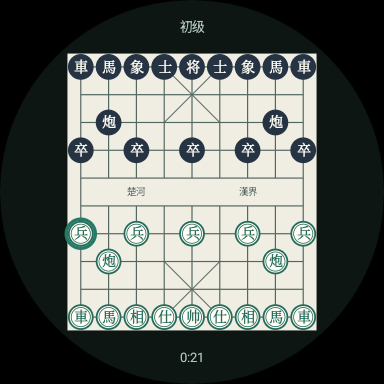
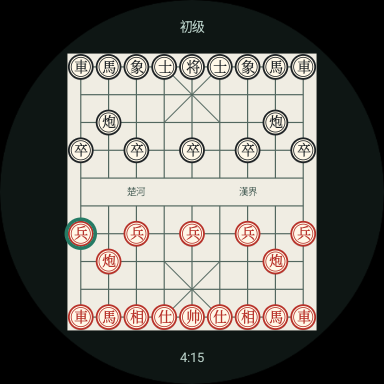
Release v1.0.7: red and black pieces, and music that plays again
1.0.6 drew the two sides as celadon-on-ivory and navy discs. She said that
does not read as xiangqi, which is red against black, and asked for red
characters on a light face and black characters on a light face. Both sides
now share one face colour, slightly warmer than the ivory board, with a faint
shadow so a light piece does not dissolve into a light board; the ink colour
carries the side.

Music had gone silent since 1.0.5. MediaPlayer treats pause() before its first
start() as an invalid call and drops into the Error state, after which start()
does nothing. 1.0.5 started pausing the music whenever the app leaves the
foreground, and on the menu screen the music has not started yet, so one wrist
drop there was enough to kill it for the rest of the process. Her watch's
audio history shows exactly that: paused then stopped at launch, and every
later start followed by an immediate stop. stopBgm now pauses only while
playing, and a player that errors anyway is released and rebuilt on the next
start. Reproduced on the Wear emulator via menu, Home, back, new game; silent
on 1.0.6, playing on 1.0.7.

The feature graphic now matches the app and is generated by
scripts/make-feature-graphic.py instead of being a one-off image; the old one
also put pieces inside squares rather than on intersections.

diff --git a/app/src/main/java/com/yingwang/watchchess/ui/GameScreen.kt b/app/src/main/java/com/yingwang/watchchess/ui/GameScreen.kt
@@ -52,6 +52,7 @@ import androidx.compose.ui.graphics.Color
 import androidx.compose.ui.graphics.drawscope.DrawScope
 import androidx.compose.ui.graphics.drawscope.Stroke
 import androidx.compose.ui.graphics.nativeCanvas
+import androidx.compose.ui.graphics.toArgb
 import androidx.compose.ui.input.pointer.pointerInput
 import androidx.compose.ui.input.rotary.onRotaryScrollEvent
 import androidx.compose.ui.platform.LocalConfiguration
@@ -97,8 +98,13 @@ import kotlin.math.sqrt
 
 private val BoardBg = Color(0xFFF0EDE3)
 private val GridColor = Color(0xFF52675F)
-private val RedPiece = Color(0xFF246B5B)
-private val BlackPiece = Color(0xFF253342)
+// 两方棋子照象棋的老规矩：同一种浅色子面，红方朱砂字，黑方墨字，字外各勾一道同色圈。
+// 1.0.6 曾把两方改成墨青浅子与深蓝深子，殿下 2026-09-26 看了说不像象棋，要「白底黑字、
+// 白底红字」。子面比棋盘略暖一些，再垫一圈很淡的影子，免得浅子融进象牙白的盘里。
+private val PieceFace = Color(0xFFFFF8E8)
+private val PieceShadow = Color(0x2A000000)
+private val RedPiece = Color(0xFFB8322A)
+private val BlackPiece = Color(0xFF1E2326)
 private val SelectedRing = Color(0xFF257B65)
 private val LegalDot = Color(0xAA257B65)
 private val OpponentMoveColor = Color(0xFF1B6BFF)
@@ -260,7 +266,7 @@ private fun vibrateDouble(context: Context) {
 
 // ── Sound ──────────────────────────────────────────────────────────────────
 
-private class GameSounds(context: Context) {
+private class GameSounds(private val context: Context) {
     private val pool = SoundPool.Builder()
         .setMaxStreams(2)
         .setAudioAttributes(
@@ -276,9 +282,23 @@ private class GameSounds(context: Context) {
     // 也是棋盘上真正会喊的那一句。
     private val sayCaptureId = pool.load(context, R.raw.say_capture, 1)
     private val sayCheckId = pool.load(context, R.raw.say_check, 1)
-    private val bgm = android.media.MediaPlayer.create(context, R.raw.background_music)?.apply {
-        isLooping = true; setVolume(0.15f, 0.15f)
-    }
+    // 背景音乐播放器。MediaPlayer 有个脾气：还没 start 过就 pause，它会报错进入 Error
+    // 状态，之后再 start 也不出声。1.0.5 加了「退到后台就停音乐」，停在菜单页（音乐
+    // 本来就没开始）时抬腕放腕一下就踩中这条，此后整局都没音乐，殿下 2026-09-26 发现
+    // 「音乐打开之后好像没有音乐了」。所以只在真在放的时候才 pause；万一还是进了 Error，
+    // 就把它丢掉，下次要放时重建一个。
+    private var bgm: android.media.MediaPlayer? = createBgm()
+
+    private fun createBgm(): android.media.MediaPlayer? =
+        android.media.MediaPlayer.create(context, R.raw.background_music)?.apply {
+            isLooping = true; setVolume(0.15f, 0.15f)
+            setOnErrorListener { mp, what, extra ->
+                Log.w("WatchChess", "bgm error $what/$extra, recreating")
+                mp.release()
+                if (bgm === mp) bgm = null
+                true
+            }
+        }
 
     // 这两个开关要记住。2026-09-22 殿下说调试的时候把音乐音效关了，翻出来才发现关了
     // 也白关：它们只存在内存里，应用一重启就又回到开着。菜单里明明有这个开关，关掉之后
@@ -291,11 +311,15 @@ private class GameSounds(context: Context) {
     // 默认开，所以改回来。菜单里开关仍在，随时可关。
     var bgmOn = prefs.getBoolean(PREF_BGM_ON, true)
 
-    fun startBgm() { if (bgmOn) bgm?.start() }
-    fun stopBgm() { bgm?.pause() }
+    fun startBgm() {
+        if (!bgmOn) return
+        if (bgm == null) bgm = createBgm()
+        bgm?.start()
+    }
+    fun stopBgm() { bgm?.let { if (it.isPlaying) it.pause() } }
     fun toggleBgm(): Boolean {
         bgmOn = !bgmOn
-        if (bgmOn) bgm?.start() else bgm?.pause()
+        if (bgmOn) startBgm() else stopBgm()
         prefs.edit().putBoolean(PREF_BGM_ON, bgmOn).apply()
         return bgmOn
     }
@@ -308,7 +332,7 @@ private class GameSounds(context: Context) {
     fun playCapture() { if (sfxOn) pool.play(captureId, 0.8f, 0.8f, 1, 0, 1f) }
     fun sayCapture() { if (sfxOn) pool.play(sayCaptureId, 1f, 1f, 2, 0, 1f) }
     fun sayCheck() { if (sfxOn) pool.play(sayCheckId, 1f, 1f, 2, 0, 1f) }
-    fun release() { bgm?.release(); pool.release() }
+    fun release() { bgm?.release(); bgm = null; pool.release() }
 }
 
 // ── Root ───────────────────────────────────────────────────────────────────
@@ -1133,10 +1157,12 @@ private fun DrawScope.drawPieces(ox: Float, oy: Float, c: Float, pieces: List<Pi
         val cx = ox + flipCol(piece.position.col, flipped) * c
         val cy = oy + flipRow(piece.position.row, flipped) * c
         val ctr = Offset(cx, cy); val red = piece.color == PieceColor.RED
-        drawCircle(if (red) Color(0xFFFFFDF5) else BlackPiece, r, ctr)
-        drawCircle(if (red) RedPiece else BlackPiece, r, ctr, style = Stroke(1.8f))
-        drawCircle(if (red) RedPiece else BlackPiece, r * 0.80f, ctr, style = Stroke(0.8f))
-        tp.color = if (red) 0xFF246B5B.toInt() else 0xFFFFFDF5.toInt()
+        val ink = if (red) RedPiece else BlackPiece
+        drawCircle(PieceShadow, r, ctr + Offset(0f, c * 0.05f))
+        drawCircle(PieceFace, r, ctr)
+        drawCircle(ink, r, ctr, style = Stroke(1.8f))
+        drawCircle(ink, r * 0.80f, ctr, style = Stroke(0.8f))
+        tp.color = ink.toArgb()
         val fm = tp.fontMetrics
         drawContext.canvas.nativeCanvas.drawText(piece.type.getDisplayName(piece.color), cx, cy - (fm.ascent + fm.descent) / 2, tp)
     }
@@ -1205,12 +1231,12 @@ private fun DrawScope.drawCaptured(ox: Float, c: Float, captured: List<Piece>, t
             textSize = r * 1.15f
             textAlign = android.graphics.Paint.Align.CENTER
             isAntiAlias = true
-            color = if (side == PieceColor.RED) 0xFF246B5B.toInt() else 0xFFFFFDF5.toInt()
+            color = colour.toArgb()
         }
         val fm = tp.fontMetrics
         for ((i, piece) in shown.withIndex()) {
             val y = top + i * step
-            drawCircle(if (side == PieceColor.RED) Color(0xFFFFFDF5) else BlackPiece, r, Offset(x, y))
+            drawCircle(PieceFace, r, Offset(x, y))
             drawCircle(colour, r, Offset(x, y), style = Stroke(1.2f))
             drawContext.canvas.nativeCanvas.drawText(
                 piece.type.getDisplayName(piece.color), x, y - (fm.ascent + fm.descent) / 2, tp,

diff --git a/scripts/make-feature-graphic.py b/scripts/make-feature-graphic.py
@@ -1,0 +1,61 @@
+# 商店横幅图 1024x500。从仓库根目录跑：python3 scripts/make-feature-graphic.py
+# 配色跟 GameScreen.kt 对齐：菜单墨青底、象牙白棋盘、白底红字与白底黑字的棋子、青绿表冠光标。
+from PIL import Image, ImageDraw, ImageFont
+S = 2                      # 先按两倍画，再缩回 1024x500 抗锯齿
+W, H = 1024 * S, 500 * S
+MENU_BG = (0x0E, 0x16, 0x14)
+BOARD_BG = (0xF0, 0xED, 0xE3)
+GRID = (0x52, 0x67, 0x5F)
+FACE = (0xFF, 0xF8, 0xE8)
+RED = (0xB8, 0x32, 0x2A)
+BLACK = (0x1E, 0x23, 0x26)
+SHADOW = (0xD6, 0xD2, 0xC6)
+CURSOR = (0x25, 0x7B, 0x65)
+HEADING = (0x9C, 0xC3, 0xBB)
+TEXT = (0xE8, 0xEF, 0xED)
+TEXT_DIM = (0x8A, 0x9B, 0x97)
+
+im = Image.new("RGB", (W, H), MENU_BG)
+d = ImageDraw.Draw(im)
+
+# 右侧棋盘：一块截出来的象棋盘，棋子落在交叉点上
+bx0, by0, bx1, by1 = 524 * S, 15 * S, 994 * S, 485 * S
+d.rectangle([bx0, by0, bx1, by1], fill=BOARD_BG)
+cell = 100 * S
+off = 35 * S
+lw = 2 * S
+for i in range(5):
+    x = bx0 + off + i * cell
+    d.line([x, by0, x, by1], fill=GRID, width=lw)
+    y = by0 + off + i * cell
+    d.line([bx0, y, bx1, y], fill=GRID, width=lw)
+
+song = "/System/Library/Fonts/Supplemental/Songti.ttc"
+def piece(ix, iy, ch, red):
+    cx, cy = bx0 + off + ix * cell, by0 + off + iy * cell
+    r = int(cell * 0.45)
+    ink = RED if red else BLACK
+    sh = int(cell * 0.05)
+    d.ellipse([cx - r, cy - r + sh, cx + r, cy + r + sh], fill=SHADOW)
+    d.ellipse([cx - r, cy - r, cx + r, cy + r], fill=FACE, outline=ink, width=int(3.6 * S))
+    r2 = int(r * 0.80)
+    d.ellipse([cx - r2, cy - r2, cx + r2, cy + r2], outline=ink, width=int(1.6 * S))
+    f = ImageFont.truetype(song, int(cell * 0.52), index=1)
+    d.text((cx, cy), ch, font=f, fill=ink, anchor="mm")
+    return cx, cy, r
+
+piece(1, 1, "車", False)
+cx, cy, r = piece(2, 2, "炮", True)
+piece(3, 3, "馬", False)
+# 表冠光标：绕着被选中的那颗子一圈粗环
+rc = int(cell * 0.54)
+d.ellipse([cx - rc, cy - rc, cx + rc, cy + rc], outline=CURSOR, width=int(5 * S))
+
+# 左侧文字
+title = ImageFont.truetype("/System/Library/Fonts/Supplemental/Baskerville.ttc", 64 * S)
+sub = ImageFont.truetype("/System/Library/Fonts/HelveticaNeue.ttc", 32 * S)
+d.text((62 * S, 222 * S), "WatchChess", font=title, fill=HEADING, anchor="ls")
+d.text((62 * S, 297 * S), "Xiangqi on your wrist", font=sub, fill=TEXT, anchor="ls")
+d.text((62 * S, 347 * S), "Turn the crown. Tap to play.", font=sub, fill=TEXT_DIM, anchor="ls")
+
+im.resize((1024, 500), Image.LANCZOS).save("store-assets/feature-1024x500.png")
